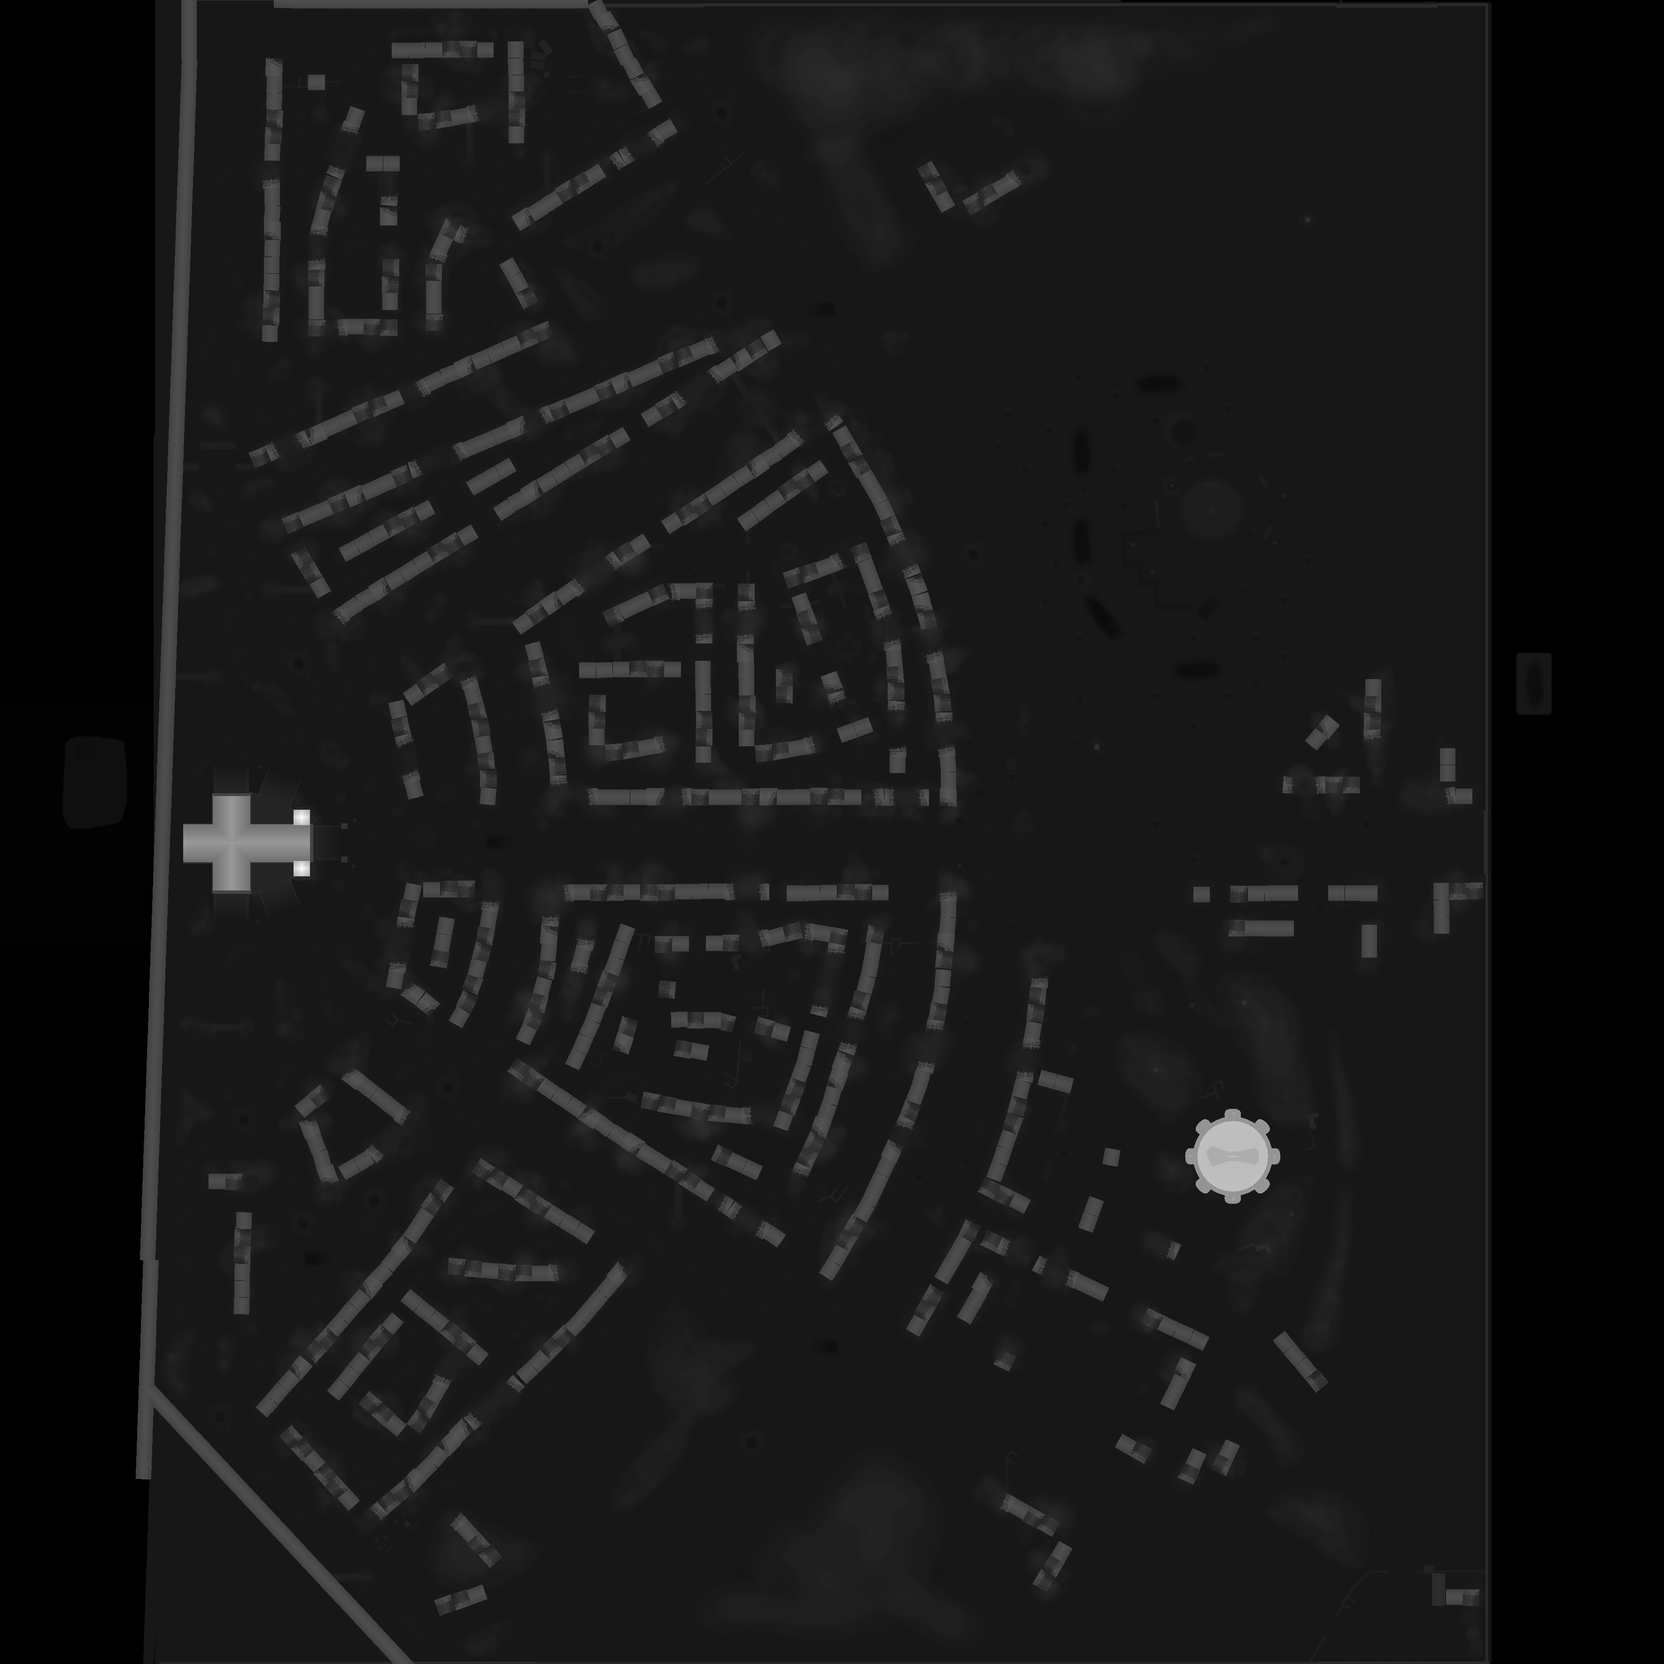
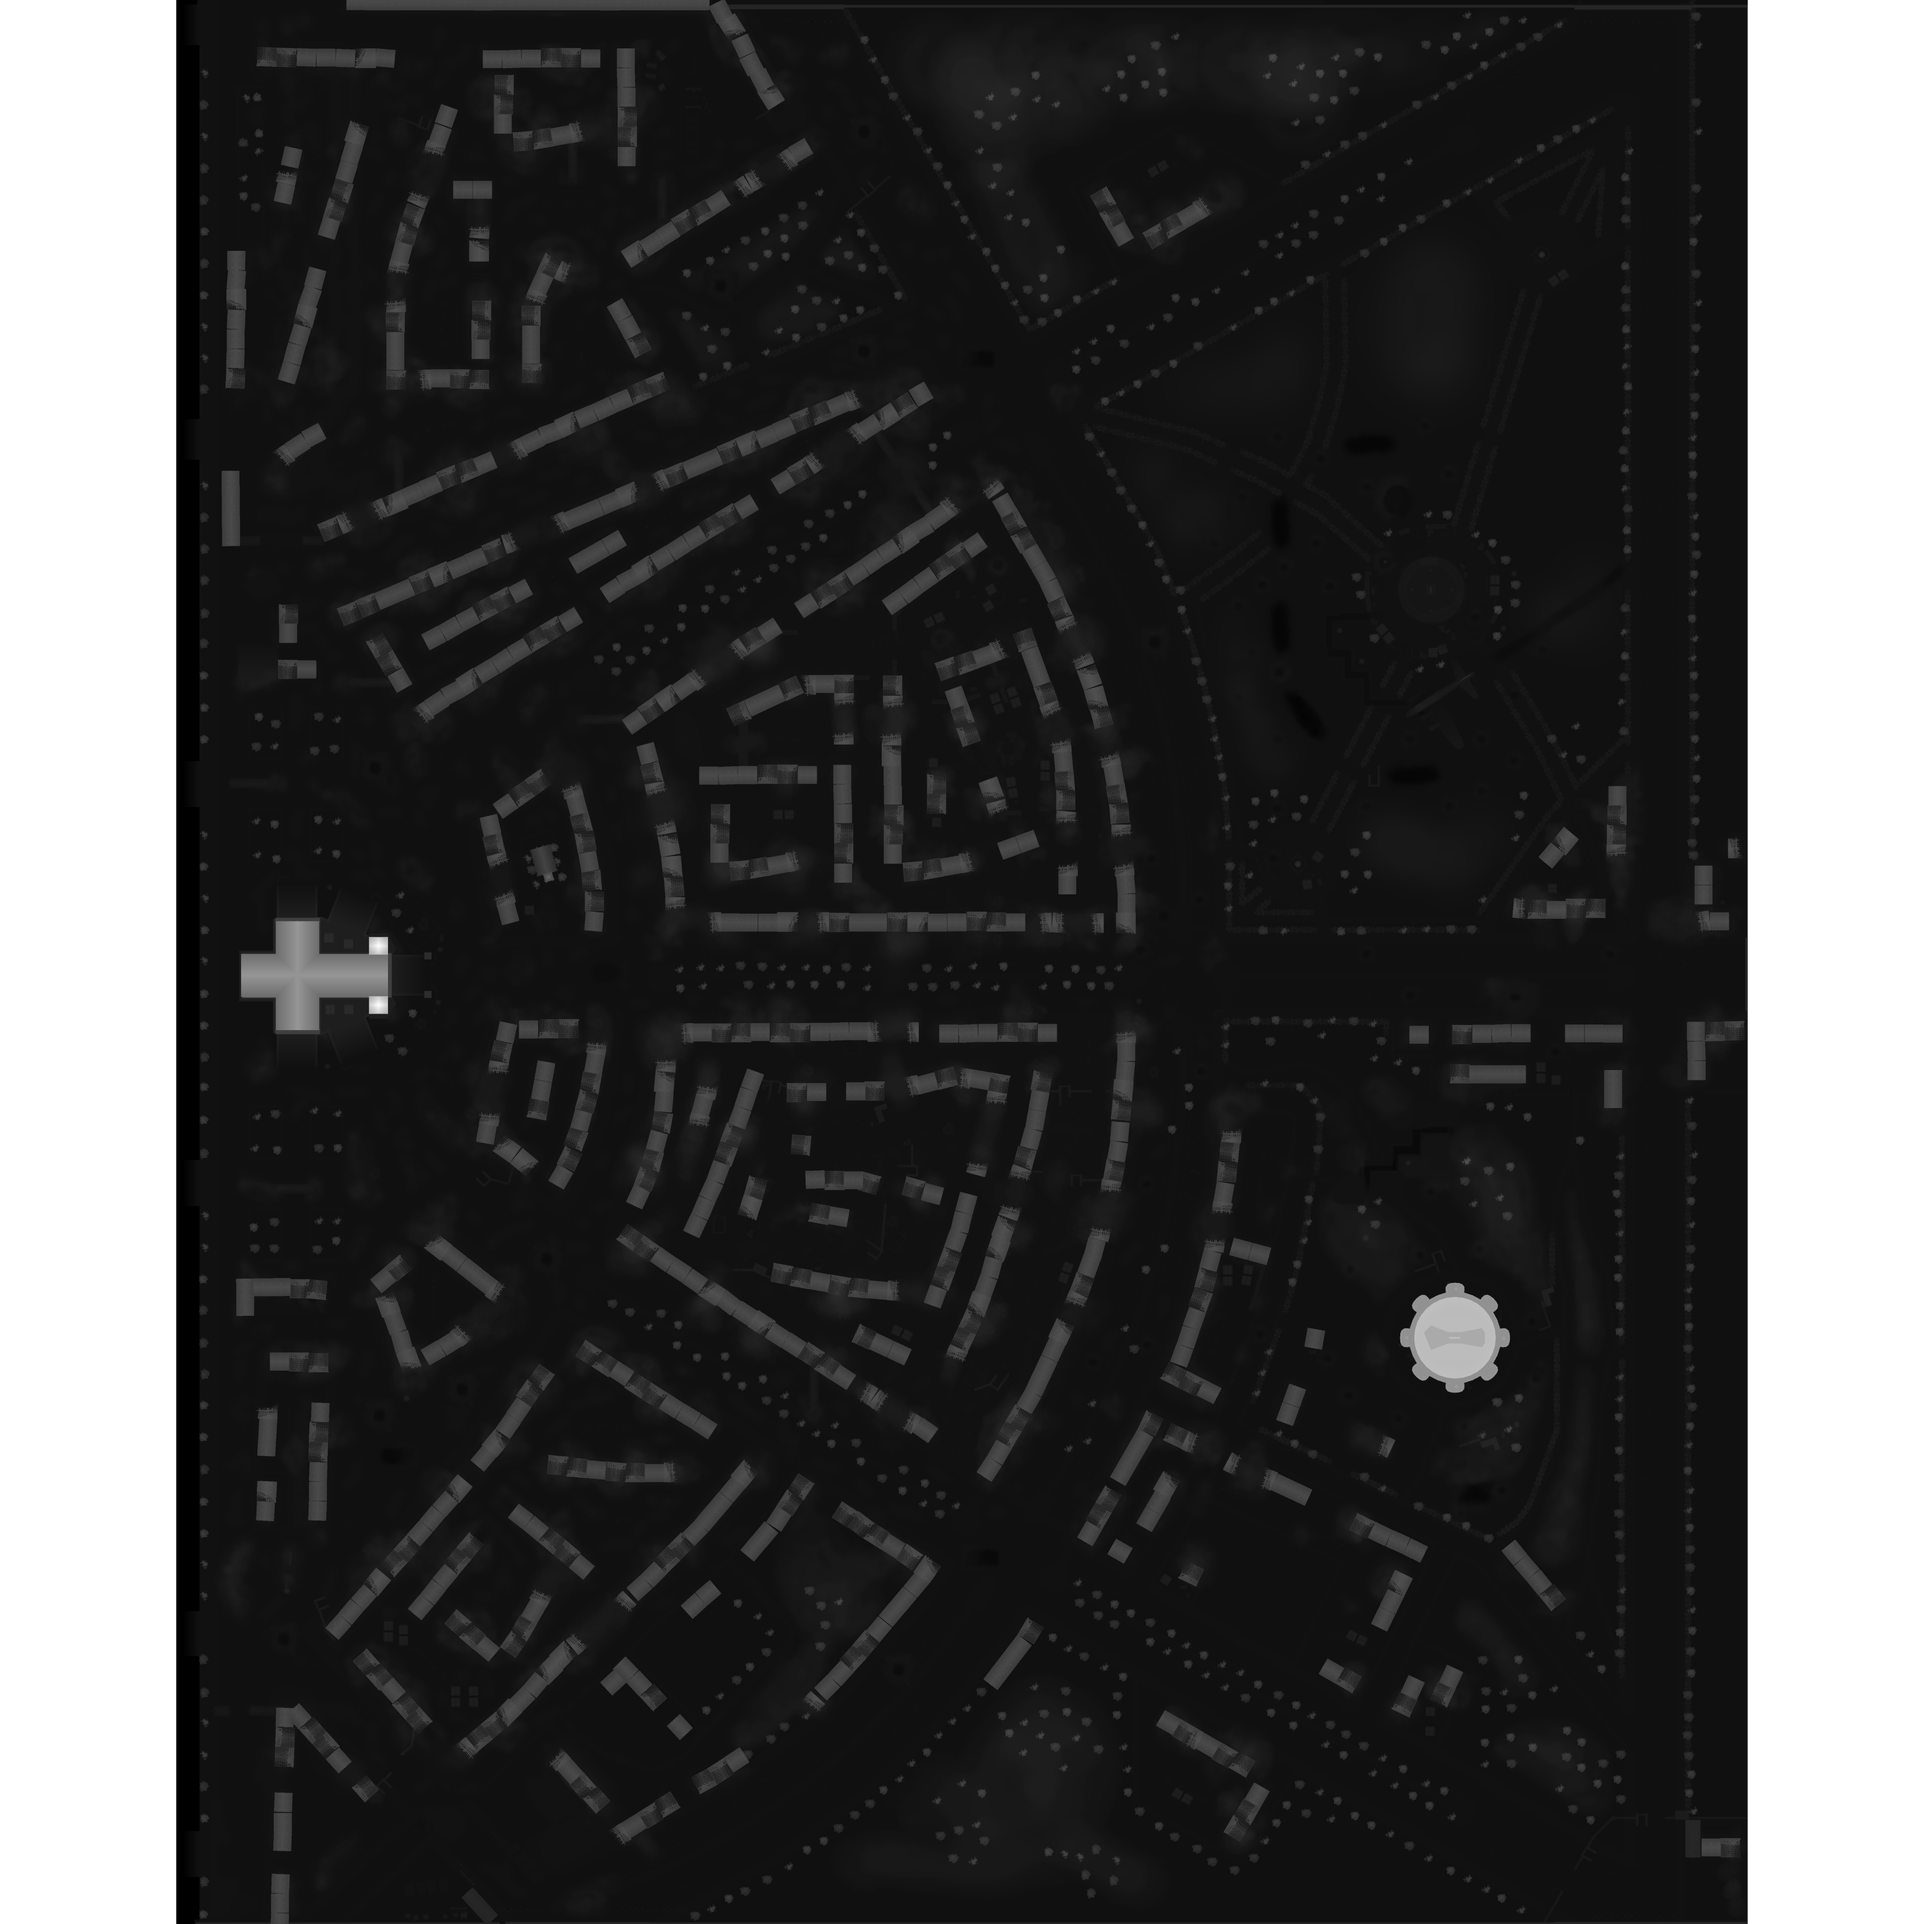
Roinburg

diff --git a/packages/mtc-artillery/src/config/maps.ts b/packages/mtc-artillery/src/config/maps.ts
@@ -152,13 +152,13 @@ export const gameMaps: Record<string, GameMap> = {
 
   roinburg: {
     heightmap: {
-      0: 0,
-      255: 227.86021423339844,
+      0: 6.165008544921875,
+      255: 227.7537384033203,
     },
     image: 'roinburg',
     inRotation: true,
     name: 'Roinburg',
-    size: calculateMapSize(142),
+    size: 7086,
   },
 
   // sandy_place: {
